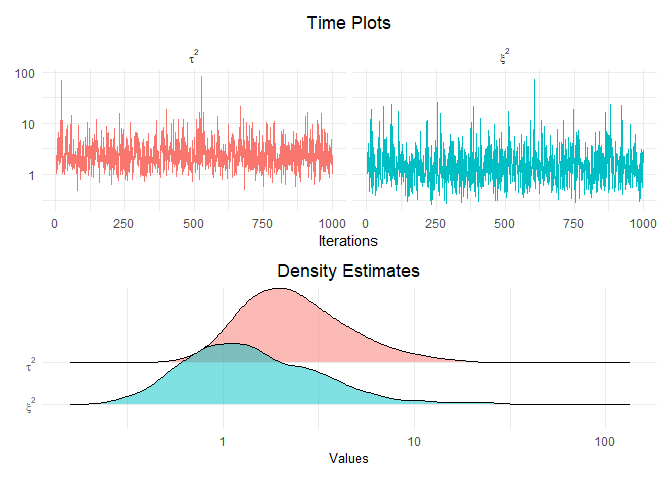
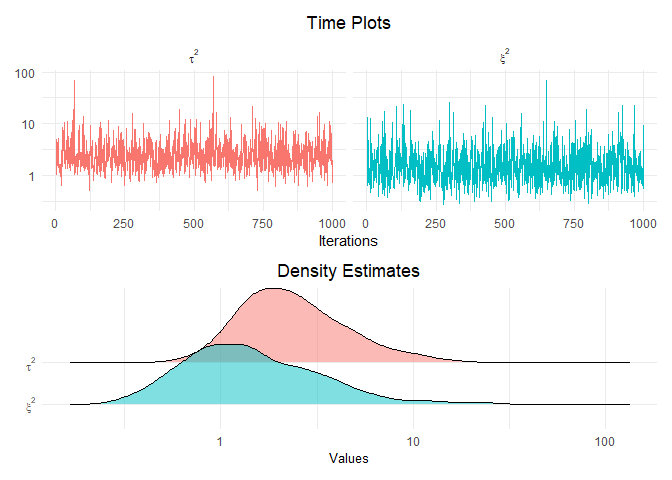
changed gibbs_sampler to mcmc_ridge

diff --git a/README.md b/README.md
@@ -4,7 +4,7 @@
 # asp21bridge
 
 The goal of `asp21bridge` is to extend the
-[lmls](https://gitlab.gwdg.de/asp21/lslm) package by implementing a
+[lmls](https://gitlab.gwdg.de/asp21/lmls) package by implementing a
 Markov Chain Monte Carlo Sampler with Ridge penalization.
 
 ## Underlying Model
@@ -59,7 +59,7 @@ set.seed(1234)
 fit <- toy_data %>%
   lmls(location = y ~ ., scale = ~ z1 + z2, light = FALSE) %>%
   mcmc(nsim = 1000) %>%
-  gibbs_sampler(num_sim = 1000)
+  mcmc_ridge(num_sim = 1000)
 ```
 
 ## Numerical Analysis
@@ -72,31 +72,31 @@ with specification of the `type` argument:
 
 ``` r
 summary(fit, type = "mcmc_ridge")
-##
+## 
 ## Call:
 ## lmls(location = y ~ ., scale = ~z1 + z2, data = ., light = FALSE)
-##
+## 
 ## Pearson residuals:
-##     Min.  1st Qu.   Median     Mean  3rd Qu.     Max.
-## -3.29800 -0.38660  0.11770 -0.01354  0.57410  2.54600
-##
+##     Min.  1st Qu.   Median     Mean  3rd Qu.     Max. 
+## -3.29800 -0.38660  0.11770 -0.01354  0.57410  2.54600 
+## 
 ## Location coefficients (identity link function):
-##              Mean       2.5%        50%  97.5%
-## beta_0  0.0005254 -0.1298878  0.0020753  0.147
-## beta_1 -2.0015219 -2.0071807 -2.0015440 -1.996
-## beta_2 -1.0042277 -1.0175582 -1.0042374 -0.992
-## beta_3  1.0013344  0.9815021  1.0010179  1.019
-## beta_4  2.0080190  2.0022642  2.0079843  2.014
-##
+##            Mean     2.5%      50%  97.5%
+## beta_0 -0.01120 -0.14065 -0.01112  0.128
+## beta_1 -2.00116 -2.00687 -2.00117 -1.995
+## beta_2 -1.00388 -1.01704 -1.00368 -0.992
+## beta_3  1.00306  0.98431  1.00290  1.021
+## beta_4  2.00800  2.00261  2.00795  2.014
+## 
 ## Scale coefficients (log link function):
 ##            Mean    2.5%     50%  97.5%
-## gamma_0  0.7107 -0.5013  0.7849  1.489
-## gamma_1 -1.1340 -1.2722 -1.1628 -0.917
-## gamma_2  0.9822  0.8154  0.9734  1.149
-##
-## Residual degrees of freedom: 42
-## Log-likelihood: 32.28
-## AIC: -48.57
+## gamma_0  1.1131 -0.1638  1.1506  2.021
+## gamma_1 -1.1902 -1.3266 -1.2032 -0.991
+## gamma_2  0.9449  0.7761  0.9413  1.158
+## 
+## Residual degrees of freedom: 42 
+## Log-likelihood: 32.28 
+## AIC: -48.57 
 ## BIC: -33.27
 ```
 
@@ -108,16 +108,16 @@ summary_complete(fit)
 ## # A tibble: 10 x 6
 ##    Parameter `5% Quantile` `Posterior Mean` `Posterior Median` `95% Quantile`
 ##    <chr>             <dbl>            <dbl>              <dbl>          <dbl>
-##  1 beta_0           -0.108         0.000525            0.00208          0.117
-##  2 beta_1           -2.01         -2.00               -2.00            -2.00
-##  3 beta_2           -1.01         -1.00               -1.00            -0.994
-##  4 beta_3            0.986         1.00                1.00             1.02
-##  5 beta_4            2.00          2.01                2.01             2.01
-##  6 gamma_0          -0.339         0.711               0.785            1.44
-##  7 gamma_1          -1.26         -1.13               -1.16            -0.935
-##  8 gamma_2           0.834         0.982               0.973            1.13
-##  9 tau^2             0.967         3.13                2.23             7.80
-## 10 xi^2              0.457         2.14                1.30             5.75
+##  1 beta_0          -0.120           -0.0112            -0.0111          0.103
+##  2 beta_1          -2.01            -2.00              -2.00           -2.00 
+##  3 beta_2          -1.01            -1.00              -1.00           -0.994
+##  4 beta_3           0.987            1.00               1.00            1.02 
+##  5 beta_4           2.00             2.01               2.01            2.01 
+##  6 gamma_0          0.0862           1.11               1.15            1.93 
+##  7 gamma_1         -1.31            -1.19              -1.20           -1.01 
+##  8 gamma_2          0.783            0.945              0.941           1.11 
+##  9 tau^2            0.967            3.13               2.21            7.93 
+## 10 xi^2             0.459            2.19               1.33            5.97 
 ## # ... with 1 more variable: Standard Deviation <dbl>
 ```
 
@@ -135,8 +135,8 @@ approaches:
 
 -   Posterior Mean estimates with Ridge penalty (`mcmc_ridge` column)
 
-Both the `mcmc()` function as well as the `gibbs_sampler()` function
-simply add their results to the existing model. Therefore all relevant
+Both the `mcmc()` function as well as the `mcmc_ridge()` function simply
+add their results to the existing model. Therefore all relevant
 information is contained in the `fit` object from above:
 
 ``` r
@@ -151,14 +151,14 @@ summary_complete(fit) %>%
 ## # A tibble: 8 x 5
 ##   Parameter mcmc_ridge     mcmc     mle truth
 ##   <chr>          <dbl>    <dbl>   <dbl> <dbl>
-## 1 beta_0      0.000525 -0.00369 -0.0217     0
-## 2 beta_1     -2.00     -2.00    -2.00      -2
-## 3 beta_2     -1.00     -1.00    -1.00      -1
-## 4 beta_3      1.00      1.00     1.00       1
-## 5 beta_4      2.01      2.01     2.01       2
-## 6 gamma_0     0.711     1.07     1.44       0
-## 7 gamma_1    -1.13     -1.17    -1.31      -1
-## 8 gamma_2     0.982     0.933    0.999      1
+## 1 beta_0       -0.0112 -0.00762 -0.0217     0
+## 2 beta_1       -2.00   -2.00    -2.00      -2
+## 3 beta_2       -1.00   -1.00    -1.00      -1
+## 4 beta_3        1.00    1.00     1.00       1
+## 5 beta_4        2.01    2.01     2.01       2
+## 6 gamma_0       1.11    1.17     1.44       0
+## 7 gamma_1      -1.19   -1.18    -1.31      -1
+## 8 gamma_2       0.945   0.920    0.999      1
 ```
 
 The estimates for *β*<sub>1</sub> up to *β*<sub>4</sub> are identical in
@@ -185,13 +185,13 @@ location-scale regression model, the `mle` results are, unsurprisingly,
 worse than both of the more flexible MCMC methods.
 
 The Markov Chain Monte Carlo samples for *γ* based on the Metropolis -
-Hastings algorithm implemented in the `gibbs_sampler()` function are
+Hastings algorithm implemented in the `mcmc_ridge()` function are
 strongly correlated, even though the acceptance rate of the proposed
 values is reasonable:
 
 ``` r
 fit$mcmc_ridge$acceptance_rate
-## [1] 0.432
+## [1] 0.427
 ```
 
 This value of roughly 43% indicates that the variance of the proposal
@@ -208,7 +208,7 @@ A quick overview can be gained by collecting the corresponding time
 plots for all posterior coefficients.
 
 ``` r
-mult_plot(fit, type = "time", free_scale = TRUE, latex = TRUE, robust = TRUE)
+mult_plot(fit, type = "time", free_scale = TRUE, latex = TRUE)
 ```
 
 <img src="man/figures/README-unnamed-chunk-8-1.png" width="100%" />
@@ -244,7 +244,7 @@ quantities:
 set.seed(4321)
 
 fit <- fit %>%
-  gibbs_sampler(num_sim = 10000)
+  mcmc_ridge(num_sim = 10000)
 ```
 
 We drop the first 1000 samples for *γ*<sub>2</sub> and show the three
